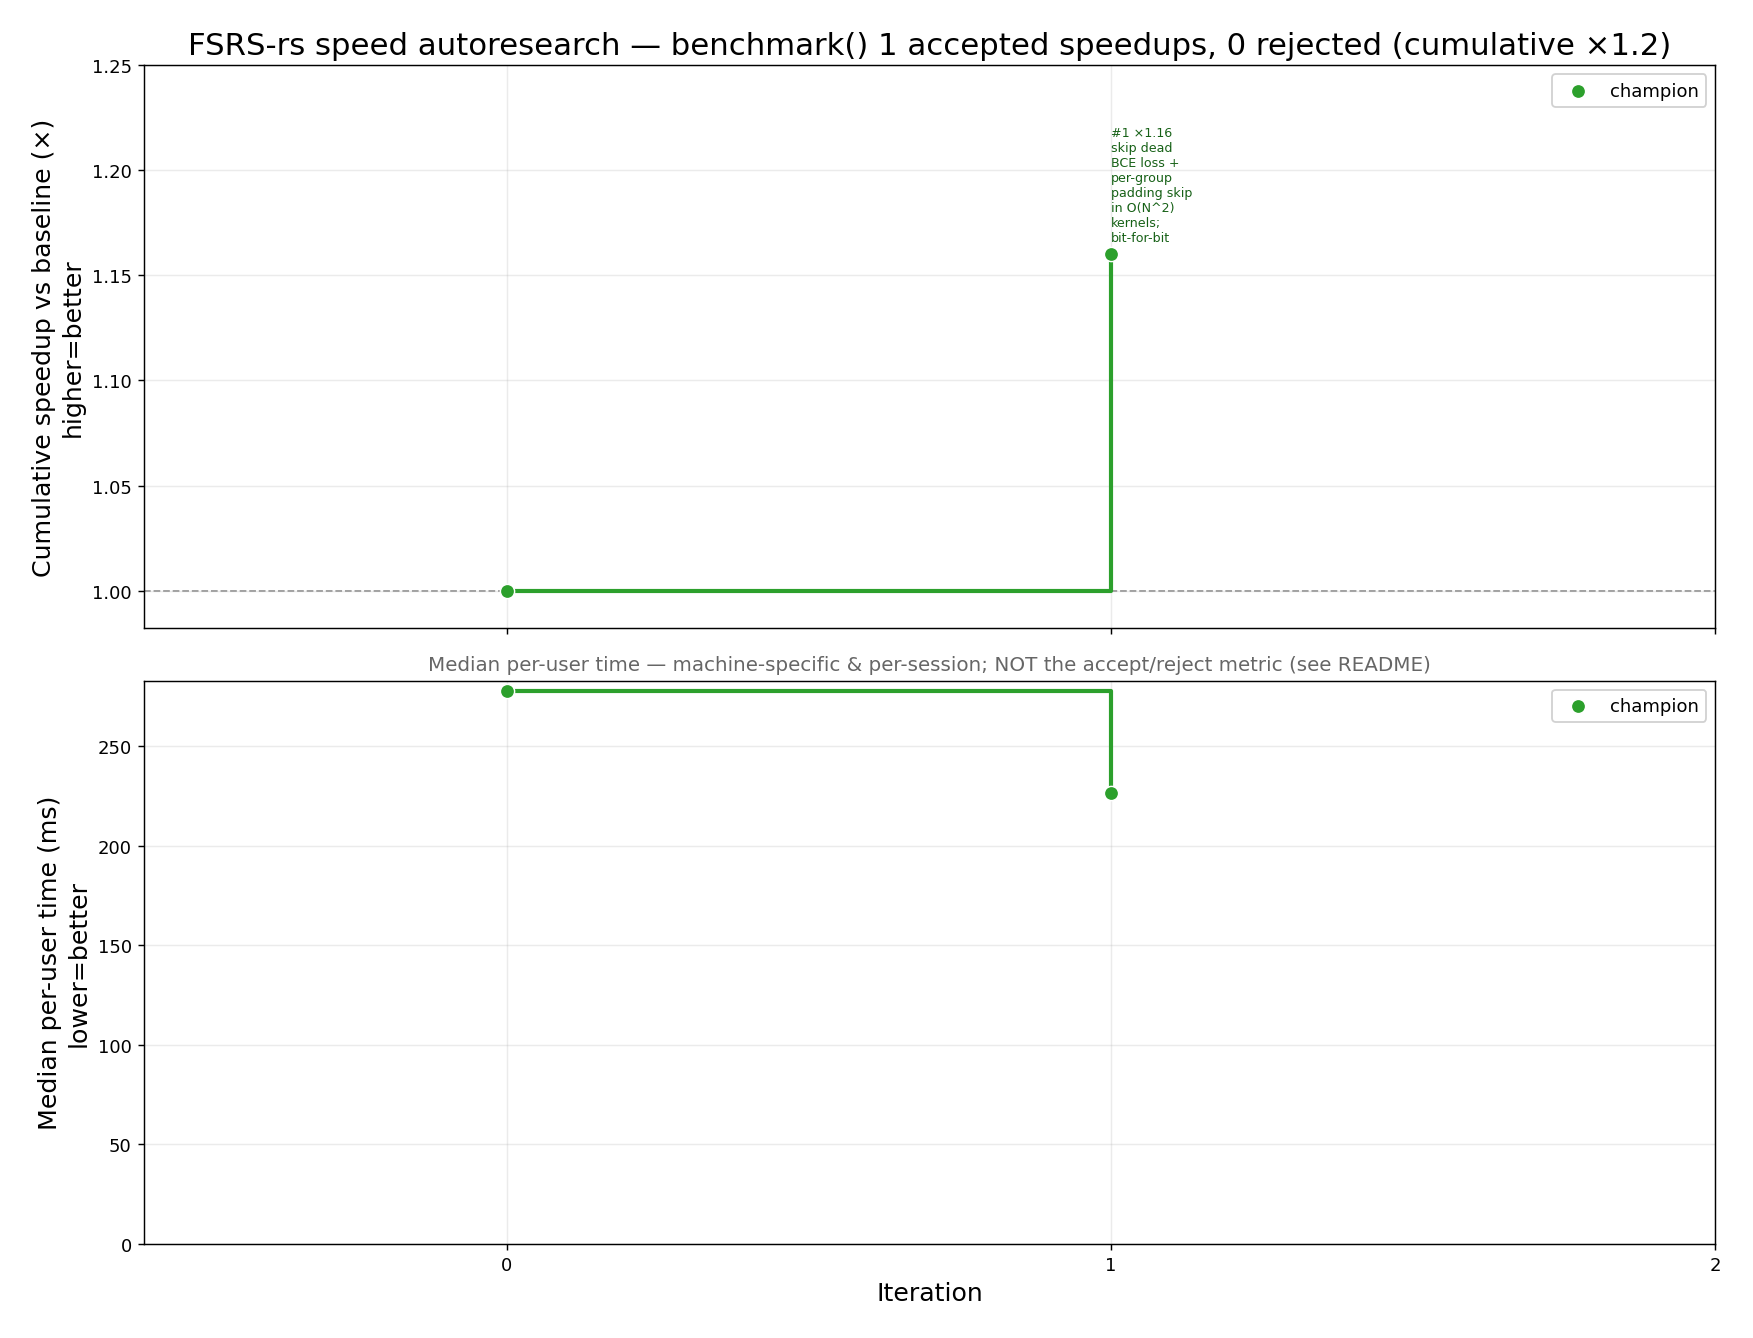
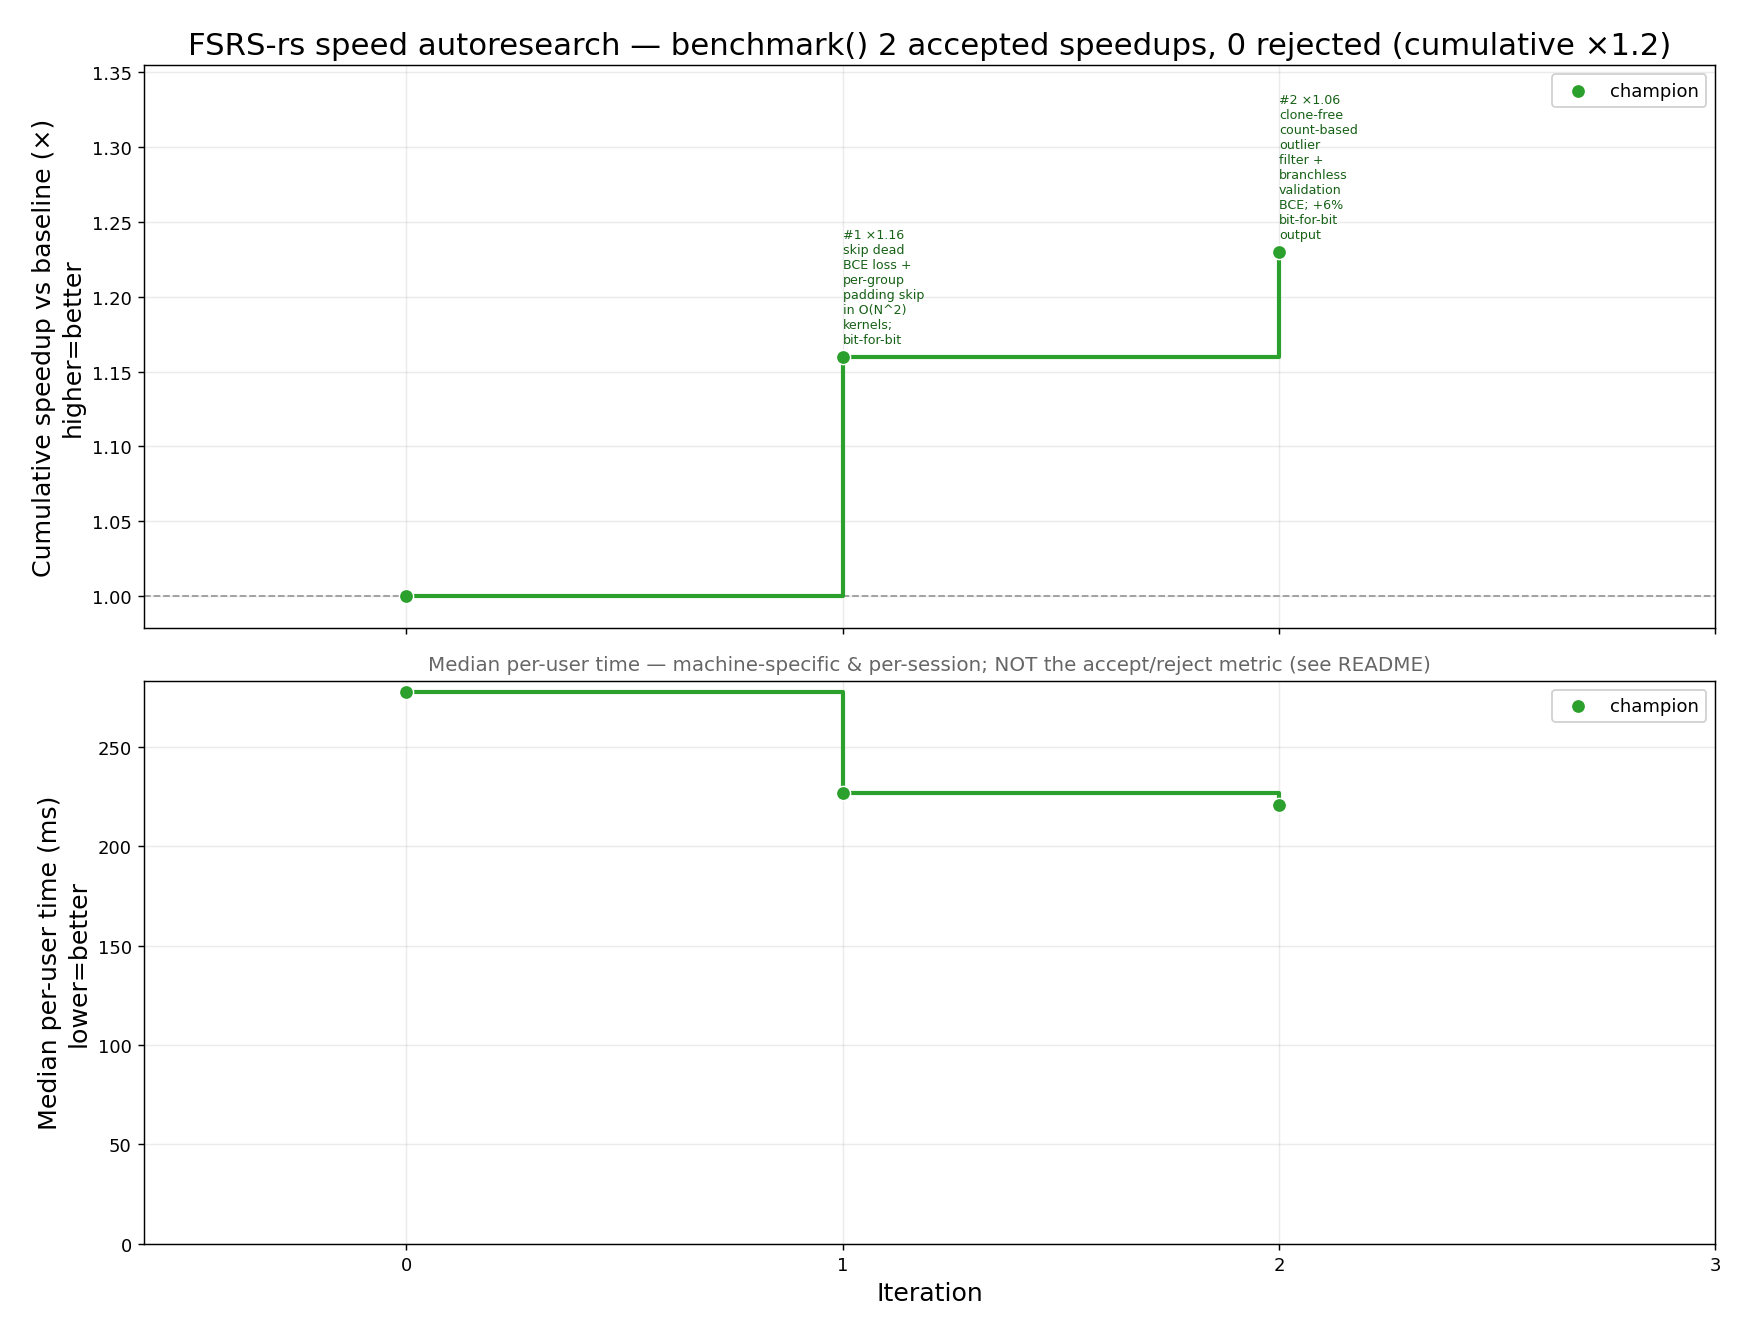
Phase 2 iter2: clone-free count-based outlier filter + branchless validation BCE — +6% median, bit-for-bit
Bundle of two changes to benchmark()'s per-fold setup + validation, both producing
byte-identical benchmark.py output (0/50 params + 0/50 LogLoss, mean 0.313500 unchanged).
Cumulative Phase-2 speedup now x1.23.

1. Count-based outlier filter (training.rs compute_outlier_removed_pairs, structural
   bit-for-bit). The old code cloned EVERY item (items.clone() + partition) just to pull
   out the cnt==1 init candidates, stored them in a Vec<FSRSItem> per (rating, delta_t)
   bucket, and built a `filtered_items` init set via extend_from_slice. But the threshold
   logic only reads bucket SIZES, and the init set is discarded by every caller. Rewrote it
   to take an iterator of &FSRSItem and tally per-bucket COUNTS -> zero init clone, no item
   storage. Updated filter_outlier (pub, kept signature), prepare_training_data, and
   prepare_training_data_carded, preserving each function's no-outlier behaviour.
   removed_pairs is byte-identical, so the trainset (and trained params) are unchanged.

2. Branchless validation BCE (analytic.rs batch_loss_simd). Replace r.to_array() + 8 scalar
   f64 lns with ONE vectorized ln8(1 - |label - r|) (the same branchless BCE used on the
   windowed path; math-identical for 0/1 labels). Inexact (f32 minimax), but this loss only
   feeds best-epoch argmin and the error is far below the epoch-to-epoch gaps, so best_w
   (hence params) is unchanged: 0/50 on this 50-user set.
[…]

diff --git a/fsrs-rs/src/training.rs b/fsrs-rs/src/training.rs
@@ -765,59 +765,61 @@ impl FSRSItem {
     }
 }
 
-/// Compute the outlier-removed (rating, delta_t) buckets from the initialization subset, plus the
-/// `filtered_items` retained for parameter initialization. Split out of `filter_outlier` so the
-/// card-aware training path can reuse the exact same `removed_pairs` to retain items AND their
-/// card ids in lockstep. Behaviour is byte-identical to the original inlined logic.
-fn compute_outlier_removed_pairs(
-    dataset_for_initialization: Vec<FSRSItem>,
-) -> (Vec<FSRSItem>, [HashSet<u32>; 5]) {
+/// Compute the outlier-removed (rating, delta_t) buckets from the initialization subset. The old
+/// `filtered_items` init set is DEAD (every caller of prepare_training_data{,_carded} discards it),
+/// and the threshold logic only ever reads each bucket's SIZE — so we take the init candidates by
+/// REFERENCE and tally per-(rating, delta_t-bucket) COUNTS, cloning nothing and storing no items
+/// (the old code cloned the init items into the caller AND moved them into a Vec<FSRSItem> per
+/// bucket). Split out so the card-aware path reuses the exact same `removed_pairs`; the bucket sizes,
+/// sort order and threshold decisions are identical, so `removed_pairs` is byte-identical.
+fn compute_outlier_removed_pairs<'a>(
+    dataset_for_initialization: impl Iterator<Item = &'a FSRSItem>,
+) -> [HashSet<u32>; 5] {
     let to_key = |delta_t: f32| bucket_long_term_delta_t(delta_t).to_bits();
     let from_key = |key: u32| f32::from_bits(key);
-    let mut groups = HashMap::<u32, HashMap<u32, Vec<FSRSItem>>>::new();
+    let mut groups = HashMap::<u32, HashMap<u32, usize>>::new();
 
-    for item in dataset_for_initialization.into_iter() {
+    for item in dataset_for_initialization {
         let first_review = item.reviews.first().unwrap();
         let first_long_term_review = item.first_long_term_review();
-        let rating_group = groups.entry(first_review.rating).or_default();
-        let delta_t_group = rating_group
+        *groups
+            .entry(first_review.rating)
+            .or_default()
             .entry(to_key(first_long_term_review.delta_t))
-            .or_default();
-        delta_t_group.push(item);
+            .or_default() += 1;
     }
 
-    let mut filtered_items = vec![];
     let mut removed_pairs: [HashSet<u32>; 5] = Default::default();
 
     for (rating, delta_t_groups) in groups.into_iter().sorted_by_key(|&(k, _)| k) {
         let mut sub_groups = delta_t_groups.into_iter().collect::<Vec<_>>();
 
-        sub_groups.sort_by(|(delta_t_a, subv_a), (delta_t_b, subv_b)| {
-            subv_b
-                .len()
-                .cmp(&subv_a.len())
+        // sort by bucket COUNT desc, then delta_t desc (count == the old sub_group.len()).
+        sub_groups.sort_by(|(delta_t_a, cnt_a), (delta_t_b, cnt_b)| {
+            cnt_b
+                .cmp(cnt_a)
                 .then(from_key(*delta_t_b).total_cmp(&from_key(*delta_t_a)))
         });
 
-        let total = sub_groups.iter().map(|(_, vec)| vec.len()).sum::<usize>();
+        let total = sub_groups.iter().map(|(_, cnt)| *cnt).sum::<usize>();
         let mut has_been_removed = 0;
 
-        for (delta_t, sub_group) in sub_groups.iter().rev() {
-            if has_been_removed + sub_group.len() >= 20.max(total / 20) {
-                if sub_group.len() >= 6
-                    && from_key(*delta_t) <= if rating != 4 { 100.0 } else { 365.0 }
-                {
-                    filtered_items.extend_from_slice(sub_group);
-                } else {
-                    removed_pairs[rating as usize].insert(*delta_t);
-                }
-            } else {
-                has_been_removed += sub_group.len();
+        // Each bucket is either KEPT in the (vestigial) init set or its (rating, delta_t) pair is
+        // flagged as an outlier in `removed_pairs`. Identical control flow to the original, on counts.
+        for (delta_t, cnt) in sub_groups.iter().rev() {
+            let over_threshold = has_been_removed + *cnt >= 20.max(total / 20);
+            let kept_in_init_set = over_threshold
+                && *cnt >= 6
+                && from_key(*delta_t) <= if rating != 4 { 100.0 } else { 365.0 };
+            if !kept_in_init_set {
                 removed_pairs[rating as usize].insert(*delta_t);
+            }
+            if !over_threshold {
+                has_been_removed += *cnt;
             }
         }
     }
-    (filtered_items, removed_pairs)
+    removed_pairs
 }
 
 /// The retain predicate shared by `filter_outlier` and the card-aware path: keep an item unless
@@ -835,9 +837,10 @@ pub fn filter_outlier(
     dataset_for_initialization: Vec<FSRSItem>,
     mut trainset: Vec<FSRSItem>,
 ) -> (Vec<FSRSItem>, Vec<FSRSItem>) {
-    let (filtered_items, removed_pairs) = compute_outlier_removed_pairs(dataset_for_initialization);
+    let removed_pairs = compute_outlier_removed_pairs(dataset_for_initialization.iter());
     trainset.retain(|item| item_survives_outlier(item, &removed_pairs));
-    (filtered_items, trainset)
+    // The filtered init set is vestigial (every caller discards it); return empty.
+    (Vec::new(), trainset)
 }
 
 // ========== Dataset Types ==========
@@ -984,14 +987,25 @@ pub(crate) fn recency_weighted_fsrs_items(items: Vec<FSRSItem>) -> Vec<WeightedF
 }
 
 pub(crate) fn prepare_training_data(items: Vec<FSRSItem>) -> (Vec<FSRSItem>, Vec<FSRSItem>) {
-    let (mut dataset_for_initialization, mut trainset) = items
-        .clone()
-        .into_iter()
-        .partition(|item| item.long_term_review_cnt() == 1);
-    if std::env::var("FSRS_NO_OUTLIER").is_err() {
-        (dataset_for_initialization, trainset) = filter_outlier(dataset_for_initialization, items);
+    // The init set is vestigial (every caller discards it) and the outlier filter only needs the init
+    // candidates' (rating, delta_t) keys — so don't clone the items at all: tally removed_pairs from a
+    // borrowing filter, then keep the items that survive. (The old code did items.clone() then
+    // partitioned/filter_outlier'd; this is byte-identical on the trainset.) The no-outlier branch
+    // preserves the old partition's trainset = items with != 1 long-term review.
+    if std::env::var("FSRS_NO_OUTLIER").is_ok() {
+        let trainset = items
+            .into_iter()
+            .filter(|item| item.long_term_review_cnt() != 1)
+            .collect();
+        return (Vec::new(), trainset);
     }
-    (dataset_for_initialization, trainset)
+    let removed_pairs =
+        compute_outlier_removed_pairs(items.iter().filter(|item| item.long_term_review_cnt() == 1));
+    let trainset = items
+        .into_iter()
+        .filter(|item| item_survives_outlier(item, &removed_pairs))
+        .collect();
+    (Vec::new(), trainset)
 }
 
 /// Card-aware twin of `prepare_training_data`: applies the exact same outlier retain but to the
@@ -1003,15 +1017,13 @@ pub(crate) fn prepare_training_data_carded(
     items: Vec<FSRSItem>,
     card_ids: Vec<i64>,
 ) -> (Vec<FSRSItem>, Vec<FSRSItem>, Vec<i64>) {
-    let dataset_for_initialization: Vec<FSRSItem> = items
-        .iter()
-        .filter(|item| item.long_term_review_cnt() == 1)
-        .cloned()
-        .collect();
+    // Init set vestigial (the caller discards it); the outlier filter needs only the init candidates'
+    // keys -> no clone. No-outlier branch preserves the old behaviour: trainset = ALL items + card_ids.
     if std::env::var("FSRS_NO_OUTLIER").is_ok() {
-        return (dataset_for_initialization, items, card_ids);
+        return (Vec::new(), items, card_ids);
     }
-    let (filtered_items, removed_pairs) = compute_outlier_removed_pairs(dataset_for_initialization);
+    let removed_pairs =
+        compute_outlier_removed_pairs(items.iter().filter(|item| item.long_term_review_cnt() == 1));
     let mut trainset = Vec::with_capacity(items.len());
     let mut trainset_card_ids = Vec::with_capacity(items.len());
     for (item, cid) in items.into_iter().zip(card_ids) {
@@ -1020,7 +1032,7 @@ pub(crate) fn prepare_training_data_carded(
             trainset_card_ids.push(cid);
         }
     }
-    (filtered_items, trainset, trainset_card_ids)
+    (Vec::new(), trainset, trainset_card_ids)
 }
 
 // ========== BCE Loss ==========

diff --git a/fsrs-rs/src/analytic.rs b/fsrs-rs/src/analytic.rs
@@ -907,13 +907,15 @@ pub(crate) fn batch_loss_simd(
             MIN_R,
             MAX_R,
         );
-        let r_arr = r.to_array();
-        for (j, &rr) in r_arr.iter().enumerate() {
-            let c = c0 + j;
-            let rr = rr as f64;
-            loss += -(weights[c] as f64)
-                * (labels[c] as f64 * rr.ln() + (1.0 - labels[c] as f64) * (1.0 - rr).ln());
-        }
+        // Branchless BCE for 0/1 labels (Andrew): -ln(1 - |label - r|) = -ln(r) for label 1,
+        // -ln(1-r) for label 0 — math-identical for hard labels. Computes the whole 8-lane BCE as
+        // ONE vectorized ln8 (vs r.to_array() + 8 scalar f64 lns), summed in f64 via reduce_add.
+        // Inexact (f32 minimax ln8 vs f64 libm ln), but this loss only feeds best-epoch argmin and the
+        // error ≪ the epoch-to-epoch gaps, so best_w (hence params/benchmark loss) is unchanged.
+        let lbl = load8(labels, c0);
+        let wt = load8(weights, c0);
+        let arg = one - (lbl - r).fast_max(r - lbl); // 1 - |label - r|  (r already clamped into (0,1))
+        loss += ((k(0.0) - wt) * ln8::<false>(arg)).reduce_add() as f64;
     }
     // Remainder (< 8 cards) via the scalar path.
     for c in (n_groups * 8)..batch {

diff --git a/README.md b/README.md
@@ -1,6 +1,6 @@
 # fsrs-rs-speed-autoresearch
 
-An **autoresearch loop** that made [FSRS-rs](https://github.com/open-spaced-repetition/fsrs-rs) parameter optimization **>100x faster** — so real Anki users spend less time staring at the optimizer's progress bar and more time doing reviews — **while only making it mildly less accurate**. An AI agent (Claude) proposes a change, measures it under a strict protocol, and keeps it only if it clears both the speed and the correctness bars. Inspired by AlphaEvolve and [Andrej Karpathy's "autoresearch" repo](https://github.com/karpathy/autoresearch). Also check out [my other autoresearch repo](https://github.com/Expertium/fsrs-autoresearch).
+An **autoresearch loop** that made [FSRS-rs](https://github.com/open-spaced-repetition/fsrs-rs) parameter optimization **>100x faster** (not yet commited to FSRS-rs though) — so real Anki users spend less time staring at the optimizer's progress bar and more time doing reviews — **while only making it mildly less accurate**. An AI agent (Claude) proposes a change, measures it under a strict protocol, and keeps it only if it clears both the speed and the correctness bars. Inspired by AlphaEvolve and [Andrej Karpathy's "autoresearch" repo](https://github.com/karpathy/autoresearch). Also check out [my other autoresearch repo](https://github.com/Expertium/fsrs-autoresearch).
 
 [![Campaign progress: cumulative median speedup (top) and median per-user optimizer time (bottom) vs iteration](result/history_plot.png)](result/history_plot.png)
 

diff --git a/result/history_benchmark.md b/result/history_benchmark.md
@@ -6,5 +6,6 @@ Accept metric: **median per-user speed_ratio ≥ 1.05** (constraint 12) AND **sp
 |---|---|---|---|---|---|---|---|---|---|---|
 | 0 | 278 | 278 | 1.000 | 7278 | 7278 | 1.000 | 1.000 | ✓ | accepted | baseline: benchmark() O(N^2) per-prefix path, inherits Phase-1 shared kernels |
 | 1 | 278 | 227 | 1.160 | 7278 | 7296 | 1.002 | 1.006 | ✓ | accepted | skip dead BCE loss + per-group padding skip in O(N^2) kernels; bit-for-bit |
+| 2 | 233 | 221 | 1.060 | 7296 | 7299 | 1.000 | 1.001 | ✓ | accepted | clone-free count-based outlier filter + branchless validation BCE; +6% bit-for-bit output |
 
-**Cumulative speed_ratio (product of accepted): ×1.160** — upward-biased (winner's curse); anchor periodically vs iter-0 baseline.
+**Cumulative speed_ratio (product of accepted): ×1.230** — upward-biased (winner's curse); anchor periodically vs iter-0 baseline.
